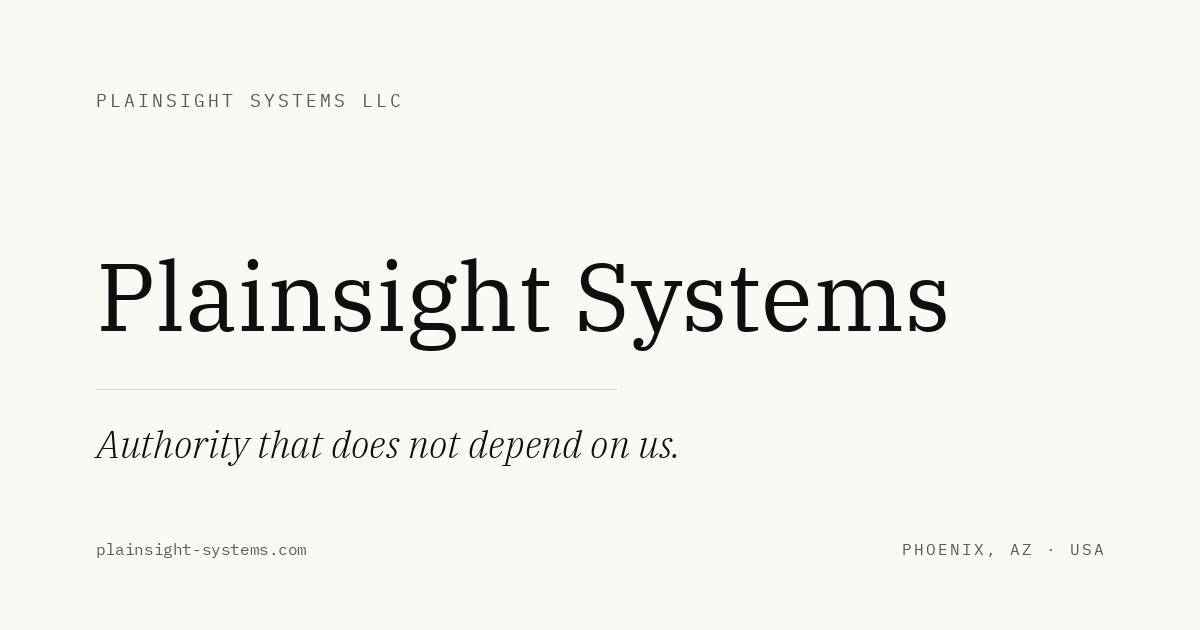
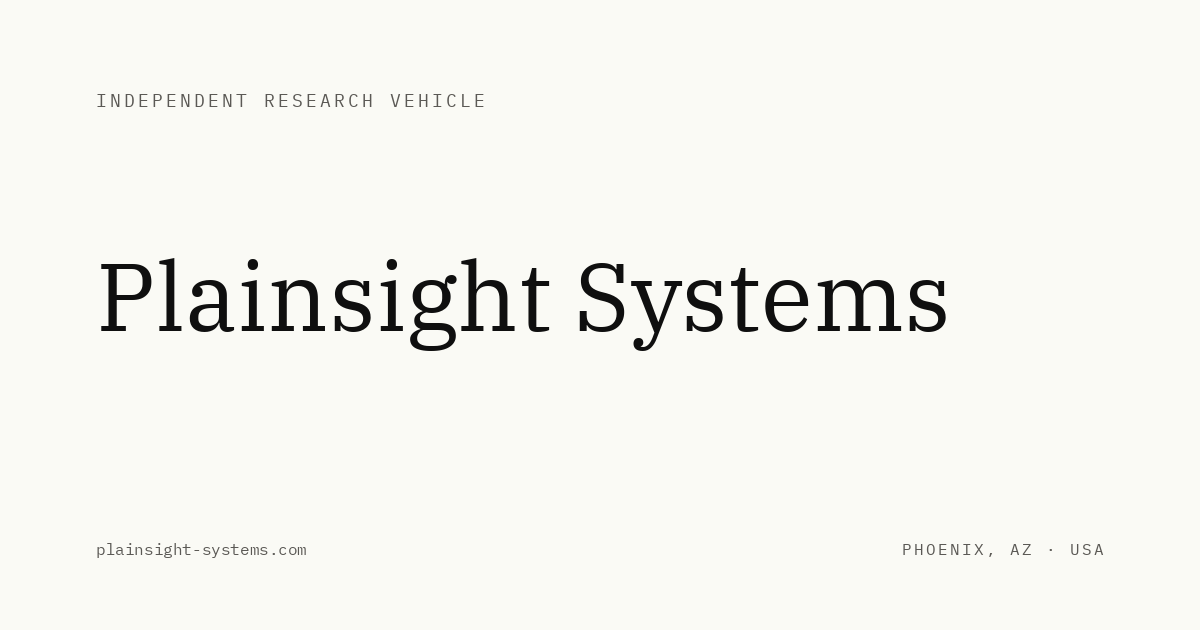
social card: regenerate for research-vehicle framing
Replace the old "Authority that does not depend on us." tagline layout
with the pivot's composition:

  eyebrow  INDEPENDENT RESEARCH VEHICLE  (tracked mono, describes what)
  wordmark Plainsight Systems            (serif, the name)
  footer   plainsight-systems.com   PHOENIX, AZ · USA

Rationale: with the tagline dropped everywhere else on the site, the
tagline slot was empty and the hairline rule lost its purpose; the old
eyebrow "PLAINSIGHT SYSTEMS LLC" also read as a straight repeat of the
wordmark below it. The eyebrow now carries the descriptor, wordmark
carries the name, footer carries the locator. Nothing else earns its
place in the composition.

Script changes:
- Drop the tagline draw and its font (PlexSerif-LightItalic no longer
  a required input; the .woff2 stays on disk as a static font asset)
- Drop the hairline rule draw and SIZE_TAGLINE constant
- Change the eyebrow text and update the module docstring composition

Script remains deterministic per its own contract: same fonts + same
script produces the same bytes.

Changed region(s): [[0.0925, 0.6937, 0.555, 0.7238], [0.0617, 0.1508, 0.4008, 0.181]]

diff --git a/scripts/generate-social-card.py b/scripts/generate-social-card.py
@@ -5,12 +5,16 @@ Generate the Open Graph social card for plainsight-systems.com.
 Output:  static/images/social-card.png  (1200 x 630)
 
 Inputs:  static/fonts/PlexSerif-Regular.woff2
-         static/fonts/PlexSerif-LightItalic.woff2
          static/fonts/PlexMono-Regular.woff2
 
 Brand tokens are mirrored from assets/css/overrides.css. If those tokens
 change, update the BRAND block below to match — the social card is the
 same brand surface as the site, just rendered as a raster.
+
+Composition:
+  eyebrow  INDEPENDENT RESEARCH VEHICLE     (tracked mono, describes what)
+  wordmark Plainsight Systems               (serif, the name)
+  footer   plainsight-systems.com   PHOENIX, AZ · USA
 
 Deterministic: given the same input fonts and this script, produces the
 same bytes.
@@ -49,7 +53,6 @@ PAD_Y = 88
 # Type sizes
 SIZE_EYEBROW = 18
 SIZE_WORDMARK = 96
-SIZE_TAGLINE = 38
 SIZE_FOOTER = 16
 
 # Letter-spacing (px) for tracked mono — mirrors CSS letter-spacing in em.
@@ -95,7 +98,6 @@ def main() -> int:
 
     inputs = {
         "serif_regular": FONT_DIR / "PlexSerif-Regular.woff2",
-        "serif_light_italic": FONT_DIR / "PlexSerif-LightItalic.woff2",
         "mono_regular": FONT_DIR / "PlexMono-Regular.woff2",
     }
     for name, path in inputs.items():
@@ -113,30 +115,19 @@ def main() -> int:
 
         font_eyebrow = ImageFont.truetype(str(ttf_paths["mono_regular"]), SIZE_EYEBROW)
         font_wordmark = ImageFont.truetype(str(ttf_paths["serif_regular"]), SIZE_WORDMARK)
-        font_tagline = ImageFont.truetype(str(ttf_paths["serif_light_italic"]), SIZE_TAGLINE)
         font_footer = ImageFont.truetype(str(ttf_paths["mono_regular"]), SIZE_FOOTER)
 
         img = Image.new("RGB", (W, H), IVORY)
         draw = ImageDraw.Draw(img)
 
-        # ── Eyebrow (top-left): "PLAINSIGHT SYSTEMS LLC"
-        eyebrow_text = "PLAINSIGHT SYSTEMS LLC"
+        # ── Eyebrow (top-left): descriptor of what this LLC is
+        eyebrow_text = "INDEPENDENT RESEARCH VEHICLE"
         draw_tracked(draw, (PAD_X, PAD_Y), eyebrow_text, font_eyebrow, MUTED, TRACK_EYEBROW)
 
         # ── Wordmark
         wordmark_text = "Plainsight Systems"
         wm_y = 232
         draw.text((PAD_X, wm_y), wordmark_text, font=font_wordmark, fill=INK)
-
-        # ── Hairline rule under the wordmark
-        wm_bbox = draw.textbbox((PAD_X, wm_y), wordmark_text, font=font_wordmark)
-        rule_y = wm_bbox[3] + 38
-        rule_w = 520
-        draw.line([(PAD_X, rule_y), (PAD_X + rule_w, rule_y)], fill=RULE, width=1)
-
-        # ── Tagline (italic light)
-        tagline_text = "Authority that does not depend on us."
-        draw.text((PAD_X, rule_y + 30), tagline_text, font=font_tagline, fill=INK)
 
         # ── Footer line: domain (left), locator (right)
         foot_y = H - PAD_Y - 4
